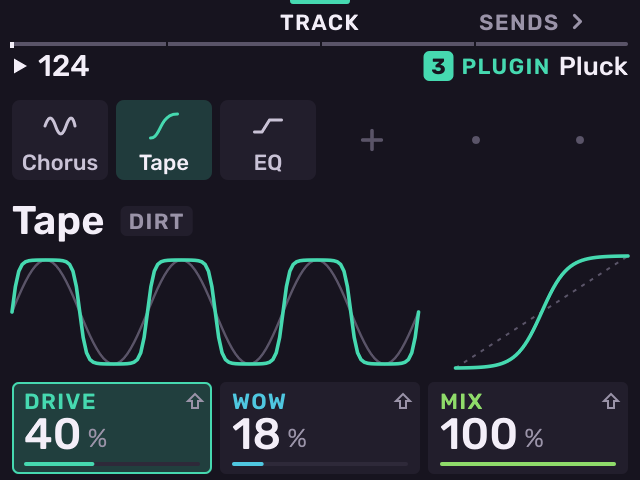
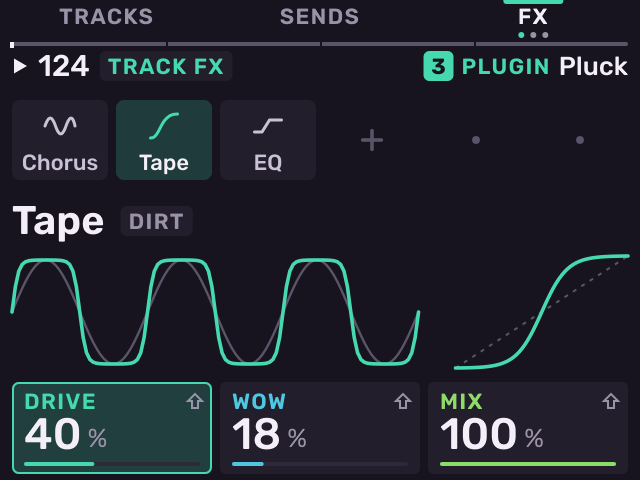
feat(melodee): Tracks, Sends and the effect chains share one row, TRACKS SENDS FX, which Pad Bank held opens from any page; Move and Copy move to Shift

diff --git a/src/melodee/pages/chain_page.cpp b/src/melodee/pages/chain_page.cpp
@@ -1,11 +1,12 @@
 // SPDX-License-Identifier: AGPL-3.0-only
 // Copyright (C) 2026 Kerem Kilic (Ellic Studio)
 // PAD EFFECTS (B1 from Track on a sampler track), TRACK EFFECTS (Knob FX),
-// BUS (B3 from Sends) and MASTER (B3 from Bus): one page shape for every
+// BUS and MASTER (the MIX hub's FX, shell/mix_hub.h): one page shape for every
 // stop along the signal, Stage's FX strip: up to six effects in a row (a
 // pad's chain is the last pad hit's, four slots), each its family's glyph
 // and name, and under it the one in hand drawn as what it does to sound.
-// B1 and B3 name the chains before and after. The wheel picks a device,
+// B1-B3 are the MIX hub's TRACKS, SENDS, FX (the lit FX steps along the chains,
+// shell/mix_hub.h); the header names the chain. The wheel picks a device,
 // the three pots hold three of its parameters and Minus / Plus the other row
 // (two dots by its name). Push on a device opens its sheet: change, presets,
 // bypass, move, remove as cards, Bypass lit; the wheel moves, Push does it,
@@ -96,7 +97,7 @@ void draw(Paint& p, const Snapshot& s) {
         keys.after[2] = after.isEmpty() ? Icon::None : Icon::ChevronRight;
     };
     if (pad && !kit) { // pad effects belong to a kit's pads
-        ends("", "PAD", "TRACK");
+        keys = mix_keys(s);
         frame(p, s, keys, h);
         icon(p, Icon::Pads, zone::width / 2.0f - 14, zone::picture_y + 44, 28, colour::dim, 1.4f);
         icon(p, Icon::Cross, zone::width / 2.0f + 8, zone::picture_y + 64, 12, colour::dim, 1.8f);
@@ -107,7 +108,6 @@ void draw(Paint& p, const Snapshot& s) {
         char label[4]; pad_label(last, label);
         juce::String name = "PAD " + juce::String(label);
         if (s.track().pads[last].used()) name += juce::String::fromUTF8(" \xc2\xb7 ") + name_case(pad_name(s, last, false));
-        ends("", "PAD", "TRACK");
         h.left.push_back(pill(name, c));
         h.right.push_back(tag_of(s, s.ui.track));
     } else if (track && s.ui.fx_loop >= 0) { // a loop track's chain (docs/LOOPER.md): B1 back to the Looper
@@ -116,15 +116,16 @@ void draw(Paint& p, const Snapshot& s) {
         keys.accent = c;
         ends("LOOPER", "L" + juce::String(l + 1), "");
         h.right.push_back(chip("L" + juce::String(l + 1), c));
-    } else if (track) { ends(kit ? "PAD" : "", "TRACK", "SENDS"); h.right.push_back(tag_of(s, s.ui.track)); }
+    } else if (track) { keys = mix_keys(s); h.left.push_back(pill("TRACK FX", c)); h.right.push_back(tag_of(s, s.ui.track)); }
     else if (s.ui.page == PageId::Bus) {
-        ends("SENDS", bus_name(bus), "MASTER");
+        keys = mix_keys(s); keys.accent = c; // a bus belongs to no track: neutral
         h.left.push_back(pill("RETURN " + juce::String(s.project.buses[bus].level) + " %"));
         h.right.push_back(label(bus_name(bus), colour::mid));
     } else {
-        ends(bus_name(bus), "MASTER", "");
+        keys = mix_keys(s); keys.accent = c;
         h.right.push_back(label("MASTER", colour::mid));
     }
+    if (pad) keys = mix_keys(s); // the pad's name is in the header
     if (s.ui.sheet_open && cursor < count) // the device's cards: B1 BACK, the wheel and Push the rest
         keys = SoftKeys {{"BACK", "", ""}, -1, c, {KeyIcon::Back, KeyIcon::None, KeyIcon::None}};
     if (s.ui.picker_open) {
@@ -258,12 +259,7 @@ void soft(Context& c, int key) {
         return;
     }
     if (ui.page == PageId::Rack && ui.fx_loop >= 0) { if (key == 0) c.open(PageId::Looper); return; } // a loop track's chain
-    bool kit = c.track().engine == EngineKind::Sampler;
-    PageId before = ui.page == PageId::PadFx ? PageId::PadFx : ui.page == PageId::Rack ? (kit ? PageId::PadFx : PageId::Rack)
-                  : ui.page == PageId::Bus ? PageId::Sends : PageId::Bus;
-    PageId after = ui.page == PageId::PadFx ? PageId::Rack : ui.page == PageId::Rack ? PageId::Sends : PageId::Master;
-    if (key == 0 && before != ui.page) c.open(before);
-    if (key == 2 && after != ui.page) c.open(after);
+    mix_soft(c, key); // the MIX hub's row
 }
 
 // Minus / Plus: the device's other row of parameters; a plug-in's rows, one at a time.

diff --git a/tests/melodee.cpp b/tests/melodee.cpp
@@ -72,6 +72,7 @@
 #include "melodee/shell/button_jobs.h"
 #include "melodee/shell/page_stack.h"
 #include "melodee/shell/project_kits.h"
+#include "melodee/shell/mix_hub.h"
 #include "melodee/shell/sample_mode.h"
 #include "melodee/shell/sampler_map.h"
 #include "melodee/shell/zone_shapes.h"
@@ -9008,10 +9009,14 @@ void track_move() {
     swap_track_views(ui, 0, 1);
     CHECK(ui.track == 6);
 
-    // B1-B3 with Pad Bank held: B2 MOVE, B3 COPY; B1 steps back, then out; the active key again ends it.
+    // B1-B3 with Pad Bank held: alone, the MIX hub's TRACKS, SENDS, FX (Nothing here: track_soft() opens them);
+    // Shift + B2 MOVE, Shift + B3 COPY; then B1 steps back, then out; the active key again ends it.
     UiState held; held.pad_bank = true;
     CHECK(track_key(held, 0) == TrackKey::Nothing && held.copying == UiState::Copying::Off && held.pad_bank_used);
+    CHECK(track_key(held, 1) == TrackKey::Nothing && track_key(held, 2) == TrackKey::Nothing && held.copying == UiState::Copying::Off);
+    held.shift = true;
     CHECK(track_key(held, 1) == TrackKey::Started && held.copying == UiState::Copying::Tracks && held.moving && held.copy_from < 0);
+    held.shift = false;
     held.copy_from = 3;
     CHECK(track_key(held, 2) == TrackKey::Switched && !held.moving && held.copy_from == 3);
     CHECK(track_key(held, 0) == TrackKey::Back && held.copy_from < 0 && held.copying == UiState::Copying::Tracks);
@@ -9021,8 +9026,15 @@ void track_move() {
     start_track_pick(held, true); // Shift + B2 on Tracks
     CHECK(tracks_on_pads(held) && track_overlay_shown(held, 0) && held.moving);
     CHECK(track_key(held, 0) == TrackKey::Ended && !held.moving && !tracks_on_pads(held));
-    held.copying = UiState::Copying::Pads; held.pad_bank = true;
+    held.copying = UiState::Copying::Pads; held.pad_bank = true; held.shift = true;
     CHECK(track_key(held, 2) == TrackKey::Started && held.copying == UiState::Copying::Tracks && !held.moving); // a pad copy gives way
+    held.shift = false;
+    // The MIX hub's row (shell/mix_hub.h): TRACKS, SENDS, and FX along the chains, a kit's pads' last.
+    CHECK(mix_next(PageId::Stage, 0, false) == PageId::Tracks && mix_next(PageId::Tracks, 1, false) == PageId::Sends);
+    CHECK(mix_next(PageId::Sends, 2, false) == PageId::Rack && mix_next(PageId::Rack, 2, false) == PageId::Bus);
+    CHECK(mix_next(PageId::Bus, 2, false) == PageId::Master && mix_next(PageId::Master, 2, false) == PageId::Rack);
+    CHECK(mix_next(PageId::Master, 2, true) == PageId::PadFx && mix_next(PageId::PadFx, 2, true) == PageId::Rack);
+    CHECK(mix_section(PageId::Bus) == MixSection::Fx && mix_section(PageId::Stage) == MixSection::None);
     held.moving = true; held.stop_copying();
     CHECK(!held.moving && held.copy_from < 0);
 

diff --git a/src/melodee/shell/pad_bank.h b/src/melodee/shell/pad_bank.h
@@ -7,9 +7,10 @@
 // its next bank, A-H round (Shift: the previous one; on Punch the other bank
 // of punches); with Seq held, the bank of patterns the pads launch. Held: a pad picks that track, Minus / Plus or the wheel jump
 // banks, and after a second the screen shows the sixteen tracks (the pads are
-// the tracks at once); B2 MOVE moves a whole track to another pad, B3 COPY (or Shift + Erase, as printed)
+// the tracks at once); B1-B3 open the MIX hub (TRACKS, SENDS, FX); Shift + B2 MOVE moves a whole track to
+// another pad, Shift + B3 COPY (or Shift + Erase, as printed)
 // copies one, Erase + pad clears one (shell/track_copy.cpp). One job a tap, acted on release: no
-// double tap (the Tracks page is Sample's second stop). MIDI thread.
+// double tap. MIDI thread.
 namespace melodee {
 
 class Context;
@@ -36,9 +37,10 @@ inline void start_track_pick(UiState& ui, bool move) {
     ui.copying = UiState::Copying::Tracks;
     ui.moving = move;
 }
-// B1-B3 while the pads are the tracks (Pad Bank held, or a move or copy picking its tracks): B2 MOVE and B3 COPY
-// start one, or switch the one under way (its track kept), and again end it; B1 steps back, from where to the
-// track, then out. Ignored: the pads are not the tracks, the page's keys answer.
+// B1-B3 while the pads are the tracks (Pad Bank held, or a move or copy picking its tracks): Shift + B2 MOVE and
+// Shift + B3 COPY start one (B2 / B3 alone while one is under way switch it, its track kept, and again end it); B1
+// steps back, from where to the track, then out. Nothing: Pad Bank held alone, B1-B3 open the MIX hub's TRACKS,
+// SENDS, FX (shell/mix_hub.h). Ignored: the pads are not the tracks, the page's keys answer.
 enum class TrackKey : uint8_t { Ignored, Nothing, Started, Switched, Back, Ended };
 inline TrackKey track_key(UiState& ui, int key) {
     if (!tracks_on_pads(ui)) return TrackKey::Ignored;
@@ -50,6 +52,7 @@ inline TrackKey track_key(UiState& ui, int key) {
         ui.stop_copying();
         return TrackKey::Ended;
     }
+    if (!picking && !ui.shift) return TrackKey::Nothing; // Pad Bank held alone: B1-B3 the MIX hub's (track_soft())
     bool move = key == 1;
     if (picking && ui.moving == move) { ui.stop_copying(); return TrackKey::Ended; }
     if (picking) { ui.moving = move; return TrackKey::Switched; }

diff --git a/src/melodee/pages/sends_page.cpp b/src/melodee/pages/sends_page.cpp
@@ -1,11 +1,11 @@
 // SPDX-License-Identifier: AGPL-3.0-only
 // Copyright (C) 2026 Kerem Kilic (Ellic Studio)
-// SENDS (B3 on Tracks): four buses, A-D, each with its own chain and
+// SENDS (the MIX hub's B2): four buses, A-D, each with its own chain and
 // return. Every track sends into each of the four (Stage's SENDS sets one
 // track's four); here one bus at a time, its sends drawn as strips, eight
 // tracks at a time (the half with the selected track). K1 the selected
 // track's send into the bus in view, K2 which bus, K3 that bus's return.
-// The wheel (or Pad Bank + pad) picks the track.
+// The wheel (or Pad Bank + pad) picks the track, Minus / Plus the bus.
 #include "melodee/engine/effect_info.h"
 #include "melodee/pages/common.h"
 #include "melodee/pages/pages.h"
@@ -21,9 +21,8 @@ void draw(Paint& p, const Snapshot& s) {
     unsigned half = (s.ui.track % track_count) / 8;
     h.left.push_back(pill(half ? "TRACKS 9-16" : "TRACKS 1-8"));
     h.right.push_back(tag_of(s, s.ui.track));
-    SoftKeys keys {{"TRACK", "SENDS", juce::String("BUS ") + char('A' + bus)}, 1, c};
-    keys.glyphs[0] = Icon::ChevronLeft; keys.after[2] = Icon::ChevronRight; // the chains before and after
-    frame(p, s, keys, h);
+    h.left.push_back(pill(juce::String("BUS ") + char('A' + bus), c)); // the bus in view (was B3's name)
+    frame(p, s, mix_keys(s), h);
 
     // The four buses: letter, first effect, return.
     float y = zone::picture_y + 4, gap = 4, bw = (zone::width - 2 * zone::pad - 3 * gap) / 4, bh = 22;
@@ -65,12 +64,9 @@ void draw(Paint& p, const Snapshot& s) {
 
 void wheel(Context& c, int delta) { c.select_track(unsigned(int(c.ui.track) + delta + 16) % 16); }
 
-void soft(Context& c, int key) {
-    if (key == 0) c.open(PageId::Rack);
-    if (key == 2) c.open(PageId::Bus);
-}
+void bus(Context& c, int way) { c.ui.sends_bus = uint8_t((c.ui.sends_bus + bus_count + way) % bus_count); }
 } // namespace
 
-const PageSpec sends_page {draw, play_pad, wheel, no_push, soft, wheel}; // Minus / Plus: the track, as the wheel
+const PageSpec sends_page {draw, play_pad, wheel, no_push, mix_soft, bus}; // Minus / Plus: the bus
 
 } // namespace melodee

diff --git a/src/melodee/pages/tracks_page.cpp b/src/melodee/pages/tracks_page.cpp
@@ -1,14 +1,14 @@
 // SPDX-License-Identifier: AGPL-3.0-only
 // Copyright (C) 2026 Kerem Kilic (Ellic Studio)
-// TRACKS (Sample's second stop: Stage, Tracks, then Keys or Pads): the
+// TRACKS (the MIX hub's B1: Pad Bank held + B1): the
 // sixteen tracks as the pads sit, each with its pattern, engine and level,
 // and the track in hand as a strip on the right (pages/track_grid.cpp): its
 // fader, meter, pan and send. A pad picks its track; K1 the track, K2 its
 // level, K3 its pan; the wheel or Minus / Plus the track, Push its Stage.
 // Each cell's bottom edge and the header show what a track takes of a block
 // (roadmap P2), so the heavy one is found before it crackles.
-// B2 LOOPER, B3 SENDS (every track's send to one bus). Shift + B2 MOVE, Shift + B3 COPY: then a track's pad
-// and where it goes (shell/pad_bank.h, as Pad Bank held + B2 or B3 anywhere).
+// The MIX hub's row (shell/mix_hub.h): B1 TRACKS (here), B2 SENDS, B3 FX. Shift + B2 MOVE, Shift + B3 COPY: then a
+// track's pad and where it goes (shell/pad_bank.h, as Pad Bank + Shift + B2 or B3 anywhere).
 #include "melodee/pages/common.h"
 #include "melodee/pages/pages.h"
 #include "melodee/shell/erase_copy.h"
@@ -37,7 +37,7 @@ void draw(Paint& p, const Snapshot& s) {
         h.right.push_back(pill(f.state == FreezeState::Deep ? Icon::DeepSnow : frozen ? Icon::Snow : Icon::Chip, juce::String(int(std::lround(load * 100))) + " %", frozen ? colour::ice : load_colour(load)));
     }
     h.right.push_back(label(s.project.name));
-    SoftKeys keys {{"TRACKS", "LOOPER", "SENDS"}, 0, colour_of(s)};
+    SoftKeys keys = mix_keys(s);
     if (s.ui.shift) { // Shift: a track moved or copied to another pad
         keys = SoftKeys {{"", "MOVE", "COPY"}, -1, colour_of(s)};
         keys.glyphs[1] = Icon::Swap; keys.glyphs[2] = Icon::Copy;
@@ -64,8 +64,7 @@ void soft(Context& c, int key) {
         if (key > 0) start_track_pick(c.ui, key == 1);
         return;
     }
-    if (key == 1) c.open(PageId::Looper);
-    if (key == 2) c.open(PageId::Sends);
+    mix_soft(c, key);
 }
 } // namespace
 

diff --git a/src/melodee/pages/track_grid.cpp b/src/melodee/pages/track_grid.cpp
@@ -105,7 +105,7 @@ void track_grid(Paint& p, const Snapshot& s) {
 }
 
 // Pad Bank held (MELODEE_PARITY.md decisions), or a track move or copy picking its tracks: the tracks over the
-// page, the kit's bank beside them, MOVE and COPY on B2 and B3; the knob strip stays the page's.
+// page, the kit's bank beside them, the MIX hub's keys (Shift: MOVE and COPY); the knob strip stays the page's.
 void draw_track_overlay(Paint& p, const Snapshot& s) {
     p.fill(0, zone::header_y, zone::width, zone::header_h + zone::picture_h, colour::bg);
     p.fill(0, zone::soft_y, zone::width, zone::soft_h, colour::bg);
@@ -115,12 +115,15 @@ void draw_track_overlay(Paint& p, const Snapshot& s) {
     bool kit = t.engine == EngineKind::Sampler;
     if (kit) h.left.push_back(pill(juce::String("BANK ") + char('A' + t.bank % sampler_banks)));
     header(p, h); // the selected track is the lit cell: no tag
-    // B1 TRACKS opens the Tracks page, B2 MOVE, B3 COPY (shell/pad_bank.h); while one picks its tracks it is lit and
-    // B1 steps back. Minus / Plus still jump the kit's bank (the BANK pill says which).
+    // The MIX hub's TRACKS, SENDS, FX; with Shift, MOVE and COPY (shell/pad_bank.h); while one picks its tracks it is
+    // lit and B1 steps back. Minus / Plus still jump the kit's bank (the BANK pill says which).
     bool picking = s.ui.copying == UiState::Copying::Tracks;
-    SoftKeys keys {{picking ? "BACK" : "TRACKS", "MOVE", "COPY"}, picking ? (s.ui.moving ? 1 : 2) : -1, colour_of(s),
-                   {picking ? KeyIcon::Back : KeyIcon::None, KeyIcon::None, KeyIcon::None}};
-    keys.glyphs[1] = Icon::Swap; keys.glyphs[2] = Icon::Copy;
+    SoftKeys keys = mix_keys(s);
+    if (picking || s.ui.shift) {
+        keys = SoftKeys {{picking ? "BACK" : "", "MOVE", "COPY"}, picking ? (s.ui.moving ? 1 : 2) : -1, colour_of(s),
+                         {picking ? KeyIcon::Back : KeyIcon::None, KeyIcon::None, KeyIcon::None}};
+        keys.glyphs[1] = Icon::Swap; keys.glyphs[2] = Icon::Copy;
+    }
     soft_keys(p, keys);
     track_grid(p, s);
 }

diff --git a/src/melodee/shell/mix_hub.h b/src/melodee/shell/mix_hub.h
@@ -1,0 +1,46 @@
+// SPDX-License-Identifier: AGPL-3.0-only
+// Copyright (C) 2026 Kerem Kilic (Ellic Studio)
+#pragma once
+#include "melodee/shell/ui_state.h"
+
+// The MIX hub (docs/HUBS_PLAN.md, M-b): Tracks, Sends and the effect chains
+// share one row of keys, B1 TRACKS, B2 SENDS, B3 FX, on each of those pages
+// and while Pad Bank is held. FX is a cycle along the signal: the track's
+// chain, a bus's, the master's, and on a kit the last pad's; the lit FX key
+// steps on, as Stage's keys do. A loop track's chain (the Looper's) keeps its
+// own keys. Pure, for the pages, the shell and the tests.
+namespace melodee {
+
+enum class MixSection : uint8_t { Tracks, Sends, Fx, None };
+
+// The FX cycle on a track (a kit has its pads' chain too), and how many.
+inline unsigned mix_fx_pages(bool kit, std::array<PageId, 4>& out) {
+    out = {PageId::Rack, PageId::Bus, PageId::Master, PageId::PadFx};
+    return kit ? 4 : 3;
+}
+// Which section a page is (None: not the MIX hub's), and its place in the FX cycle.
+inline MixSection mix_section(PageId page) {
+    switch (page) {
+    case PageId::Tracks: return MixSection::Tracks;
+    case PageId::Sends: return MixSection::Sends;
+    case PageId::Rack: case PageId::Bus: case PageId::Master: case PageId::PadFx: return MixSection::Fx;
+    default: return MixSection::None;
+    }
+}
+inline unsigned mix_fx_at(PageId page, bool kit) {
+    std::array<PageId, 4> pages {};
+    unsigned count = mix_fx_pages(kit, pages);
+    for (unsigned n = 0; n < count; ++n) if (pages[n] == page) return n;
+    return 0;
+}
+// Where B1-B3 (`key` 0-2) go from `page`: TRACKS, SENDS, or FX (its first page; on it, the next).
+inline PageId mix_next(PageId page, unsigned key, bool kit) {
+    if (key % 3 == 0) return PageId::Tracks;
+    if (key % 3 == 1) return PageId::Sends;
+    std::array<PageId, 4> pages {};
+    unsigned count = mix_fx_pages(kit, pages);
+    if (mix_section(page) != MixSection::Fx) return pages[0];
+    return pages[(mix_fx_at(page, kit) + 1) % count];
+}
+
+} // namespace melodee

diff --git a/src/melodee/shell/button_jobs.cpp b/src/melodee/shell/button_jobs.cpp
@@ -51,7 +51,7 @@ bool button_has_shift_job(const Project& project, const UiState& ui, SurfaceButt
     case B::Chop: return kit && project.tracks[ui.track % track_count].pads[project.tracks[ui.track % track_count].last_pad % sampler_pads].used(); // Note On
     case B::SixteenLevels: return project.tracks[ui.track % track_count].used(); // the 16 Levels type
     case B::TopLeft: case B::TopMiddle: { // Loop Lock, Normalize on a kit's Stage TRIM; Extract, Split on Chop; LOAD, CLEAR on LAYERS
-        if (button == B::TopMiddle && ui.page == PageId::Tracks) return true; // MOVE on Tracks
+        if (button == B::TopMiddle && (ui.page == PageId::Tracks || ui.pad_bank)) return true; // MOVE on Tracks, or Pad Bank held
         if (!kit) return false;
         if (ui.page == PageId::Chop || ui.page == PageId::LayersPage) return true;
         const auto& tr = project.tracks[ui.track % track_count];
@@ -60,7 +60,7 @@ bool button_has_shift_job(const Project& project, const UiState& ui, SurfaceButt
         if (kind == StageKind::Trim && last.used() && project.samples[last.sample % sample_slots].instrument()) return false; // ZONES (round 3)
         return kind == StageKind::Trim || kind == StageKind::Layers;
     }
-    case B::TopRight: return (ui.page == PageId::Chop && kit) || ui.page == PageId::Tracks || ui.page == PageId::Punch; // Merge; COPY on Tracks; QUANTIZE on Pad FX
+    case B::TopRight: return (ui.page == PageId::Chop && kit) || ui.page == PageId::Tracks || ui.pad_bank || ui.page == PageId::Punch; // Merge; COPY on Tracks or Pad Bank held; QUANTIZE on Pad FX
     case B::SampleRecord: return kit;                                            // Audio Recall
     case B::Erase: // Copy: what the page holds (shell/erase_copy.h), or off
         return ui.copying != UiState::Copying::Off || copy_here(project, ui, kit_pads, key_pads) != CopyHere::None;

diff --git a/src/melodee/pages/common.cpp b/src/melodee/pages/common.cpp
@@ -1,5 +1,6 @@
 // SPDX-License-Identifier: AGPL-3.0-only
 // Copyright (C) 2026 Kerem Kilic (Ellic Studio)
+#include "melodee/shell/mix_hub.h"
 #include "melodee/pages/common.h"
 #include "melodee/shell/undo_scope.h"
 #include "melodee/shell/midi_ports.h"
@@ -722,6 +723,22 @@ void octave(Context& c, int way) {
 }
 void no_wheel(Context&, int) {}
 void no_push(Context&) {}
+ui::SoftKeys mix_keys(const Snapshot& s) {
+    bool kit = s.track().engine == EngineKind::Sampler;
+    auto here = mix_section(s.ui.page);
+    std::array<PageId, 4> fx {};
+    unsigned count = mix_fx_pages(kit, fx);
+    ui::SoftKeys keys {{"TRACKS", "SENDS", "FX"}, here == MixSection::None ? -1 : int(here), colour_of(s)};
+    keys.dots[2] = uint8_t(count);
+    keys.dot_at[2] = uint8_t(here == MixSection::Fx ? mix_fx_at(s.ui.page, kit) : 0);
+    return keys;
+}
+void mix_soft(Context& c, int key) {
+    PageId next = mix_next(c.ui.page, unsigned(key), c.track().engine == EngineKind::Sampler);
+    if (next == PageId::Rack) c.ui.fx_loop = -1; // the track's own chain, not a loop's
+    if (next != c.ui.page) c.open(next);
+}
+
 void play_soft(Context& c, int key) {
     // Stage on that section: its first page, or its own kept when it was the one open (as Sample held's keys).
     const auto& t = c.track();

diff --git a/src/melodee/shell/pad_bank.cpp b/src/melodee/shell/pad_bank.cpp
@@ -1,5 +1,6 @@
 // SPDX-License-Identifier: AGPL-3.0-only
 // Copyright (C) 2026 Kerem Kilic (Ellic Studio)
+#include "melodee/shell/mix_hub.h"
 #include "melodee/shell/pad_bank.h"
 #include "melodee/model/scales.h"
 #include "melodee/shell/ask.h"
@@ -93,7 +94,12 @@ bool track_pad(Context& c, unsigned pad) {
 bool track_soft(Context& c, int key) {
     bool moving = c.ui.moving;
     auto did = track_key(c.ui, key);
-    if (did == TrackKey::Nothing && key == 0 && c.ui.pad_bank) { c.open(PageId::Tracks); return true; } // B1 TRACKS (the MIX hub)
+    if (did == TrackKey::Nothing && c.ui.pad_bank) { // B1-B3: the MIX hub's TRACKS, SENDS, FX
+        PageId next = mix_next(c.ui.page, unsigned(key), c.track().engine == EngineKind::Sampler);
+        if (next == PageId::Rack) c.ui.fx_loop = -1;
+        if (next != c.ui.page) c.open(next);
+        return true;
+    }
     if (did == TrackKey::Ended) c.notice(moving ? "Move off" : "Copy off");
     return did != TrackKey::Ignored;
 }

diff --git a/src/melodee/pages/looper_page.cpp b/src/melodee/pages/looper_page.cpp
@@ -1,6 +1,6 @@
 // SPDX-License-Identifier: AGPL-3.0-only
 // Copyright (C) 2026 Kerem Kilic (Ellic Studio)
-// LOOPER (LOOPER on Tracks; Loop and 16 Levels pressed together; 16 Levels of type Loop): the four loops
+// LOOPER (Loop and 16 Levels pressed together; 16 Levels of type Loop): the four loops
 // (docs/LOOPER.md). B1 LOOPS (round 2, looper B): four rings, each loop's
 // waveform bent round, a hand sweeping where it plays, its state and length
 // under it; K1 the loop, K2 its length,

diff --git a/src/melodee/pages/common.h b/src/melodee/pages/common.h
@@ -96,5 +96,7 @@ void octave(Context& c, int way);
 void no_wheel(Context&, int);
 void no_push(Context&);
 void play_soft(Context& c, int key); // B1-B3 open Stage on that section (Pads, Keys)
+ui::SoftKeys mix_keys(const Snapshot& s); // the MIX hub's row (shell/mix_hub.h): TRACKS SENDS FX, the page's lit
+void mix_soft(Context& c, int key);       // and where its keys go
 
 } // namespace melodee
